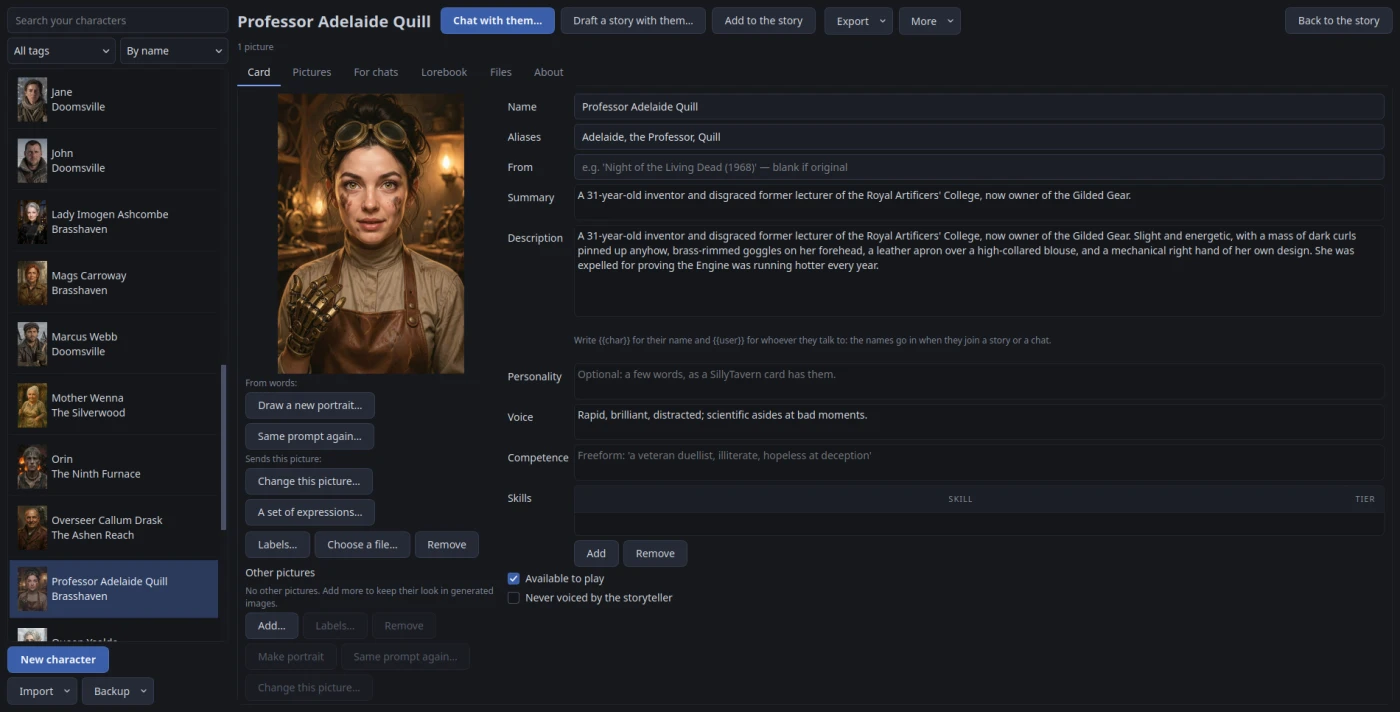
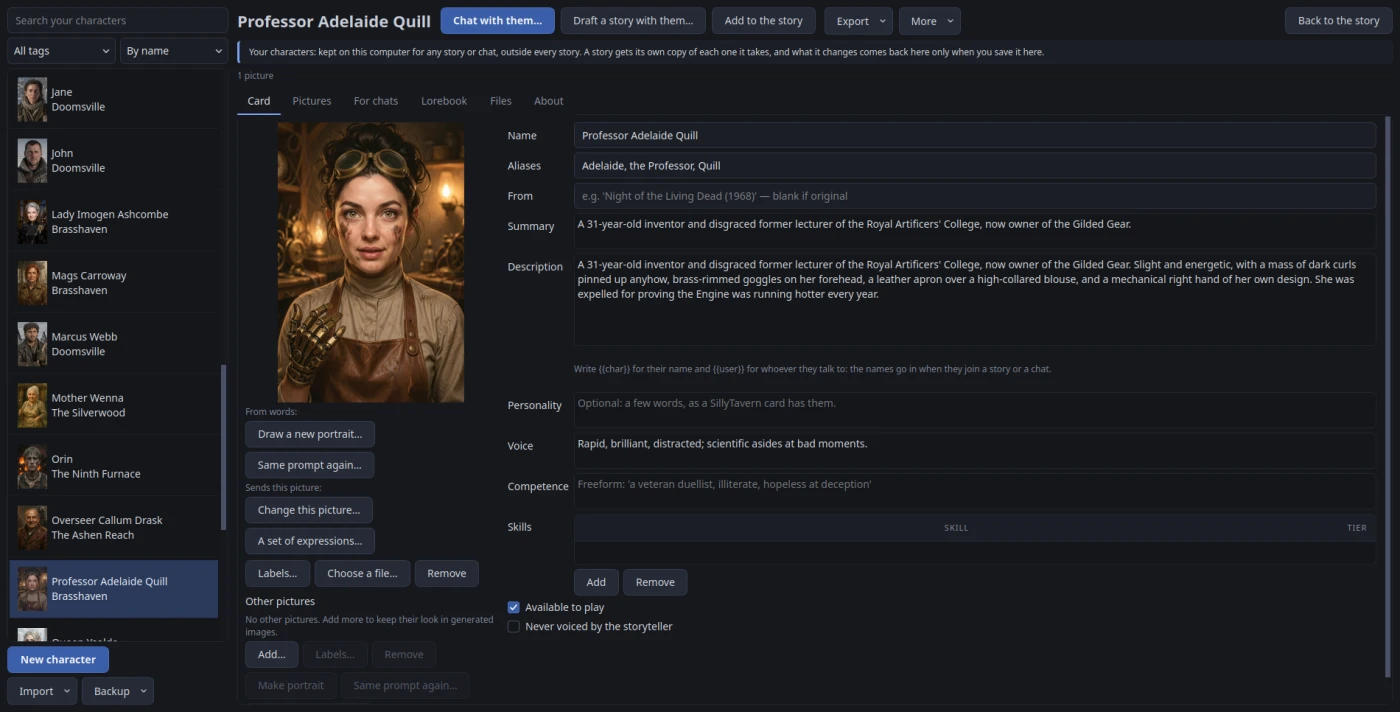
Docs: screenshots retaken for the cast board, and a chat's characters
The playing view, the People pages, the cast board's Card and Pictures
tabs and Your characters, as they now look; a new picture of a chat's
People page. The manual says what a chat's characters can take: cards
from SillyTavern, a picture of the chat as theirs, Chat with them….

diff --git a/docs/manual.md b/docs/manual.md
@@ -1188,8 +1188,8 @@ Before it starts you see, and can change, everything it is made of:
   sent and the model answers it (on a TEE or encrypted model still being
   checked, it waits in the box to type in instead, to send once it is).
 
-Their portrait goes with the chat as its own reference picture, so a picture
-of the chat draws them as they look. The card's background goes behind the
+They are one of the chat's people, with every picture of theirs (see "Simple
+chat"), so a picture of the chat draws them as they are shown there. The card's background goes behind the
 chat, and the pictures their greeting shows appear under it (see "Every file
 on the card is kept too" above).
 
@@ -1652,7 +1652,7 @@ or show them in another look (below). A card
 with no portrait has **Draw a portrait…** and **Choose a picture…** on it.
 **Cast board…** at the top of the page opens the cast board on everyone.
 
-![The People page in The Silverwood: where the story is and what is happening, then the ranger, the sellsword and the herbwife under Here now, by their portraits, and three villagers the story named under Also here, with no card yet](screenshots/people-page.webp)
+![The People page in The Silverwood: Cast board… at the top, where the story is and what is happening, then the ranger, the sellsword and the herbwife under Here now, by their portraits, and three villagers the story named under Also here, with no card yet](screenshots/people-page.webp)
 
 Until the story has them, a panel at the top offers **Draw portraits…** for
 everyone who has none (you see and can change every prompt first, as in
@@ -1729,7 +1729,7 @@ spoilers** shows the characters it hasn't brought in yet too (it is the Plot
 page's Show plot); their pictures can be drawn as well, and no model in the
 story hears of them early.
 
-![The cast board in Doomsville: John's sheet, his winter coat, combat armour and indoor clothes down the side and expressions across, two gaps chosen in the armour row and, beside them, one the story asked for, and the other characters in the list on the left](screenshots/cast-board.webp)
+![The cast board in Doomsville: the story's characters down the left, and John's Pictures tab, his winter coat, combat armour and indoor clothes down the side and expressions across, each empty place showing the words it would be drawn with, two gaps chosen in the armour row and, beside them, one the story asked for](screenshots/cast-board.webp)
 
 An empty place shows a **+** and the words it would be drawn with. Choose the
 ones you want (drag across them, Ctrl-click them, or click a row's or column's
@@ -1793,7 +1793,7 @@ call to the summarisation model; with nothing to go on it has their name
 alone, for you to fill in) and opens on their card on the cast board, where
 you can draw their portrait.
 
-![The People page in Doomsville: the player's character under Here now, and March, whom the story brought in, under Also here, with no card yet, with Make a card beside her name](screenshots/people-no-card.png)
+![The People page in Doomsville: Cast board… at the top, the player's character under Here now, and March, whom the story brought in, under Also here, with no card yet, with Make a card beside her name](screenshots/people-no-card.png)
 
 ## The scene, and who can walk into it
 
@@ -2516,10 +2516,14 @@ Find, pictures and the cost all work as in a story, and a long chat is summarise
 story is (Settings → Context), with a plain summariser.
 - **Characters, for their pictures alone.** A chat's **People** page starts
   empty. **Bring someone in** adds a character from Your characters, or a
-  new card. Their card and pictures are on the cast board (**Cast board…**
-  at the top of People): a chat's card has only what drawing them reads
-  (name, summary, description and their pictures), and their sheet of
-  looks and expressions works as a story's does. Nothing about them is sent
+  new card; on the cast board, **SillyTavern cards** brings one in from a
+  card file or a link, with its picture and expressions (never its
+  lorebook: a chat has no lore). Their card and pictures are on the cast
+  board (**Cast board…** at the top of People): a chat's card has only what
+  drawing them reads (name, summary, description and their pictures), and
+  their sheet of looks and expressions works as a story's does. A picture
+  the chat made can become one of theirs: **Use as a character's picture…**
+  on its ⋯ menu (or a video's last frame). Nothing about them is sent
   to the chat's model. Each is **Here now** or **Set aside** (right-click
   them: **Set aside for now**, **Bring them back here**), and right-click →
   **Show as** chooses which of their pictures they are shown with, from the
@@ -2527,6 +2531,9 @@ story is (Settings → Context), with a plain summariser.
   those here now, as they are shown, are offered first to go with it, as a
   story's characters' are; **Story → Draw pictures for the cards…** draws
   portraits for those with none.
+
+  ![A chat's People page: the line saying its characters are for their pictures alone, Bring someone in, John under Here now in his combat armour, and Jane under Set aside](screenshots/chat-people.webp)
+
 - **Keep in full** (a message's ⋯ menu) sends a message word for word even
   once its part of the chat is summarised: it rides after that part's
   summary. Your first message starts kept. Story so far says when kept

diff --git a/README.md b/README.md
@@ -94,7 +94,7 @@ fun to play. This app will remain focused on text based roleplay.
   few clicks. Doomsville's John and Jane come in four expressions and three
   looks.
 
-![The cast board in Doomsville: John's sheet, his winter coat, combat armour and indoor clothes down the side and expressions across, two gaps chosen in the armour row and, beside them, one the story asked for, and the other characters in the list on the left](docs/screenshots/cast-board.webp)
+![The cast board in Doomsville: the story's characters down the left, and John's Pictures tab, his winter coat, combat armour and indoor clothes down the side and expressions across, each empty place showing the words it would be drawn with, two gaps chosen in the armour row and, beside them, one the story asked for](docs/screenshots/cast-board.webp)
 
 - **A picture style for each story** (3.0.0b1). Gritty and realistic, clean
   and polished sci-fi, glamorous, anime, painted fantasy and more, your own
